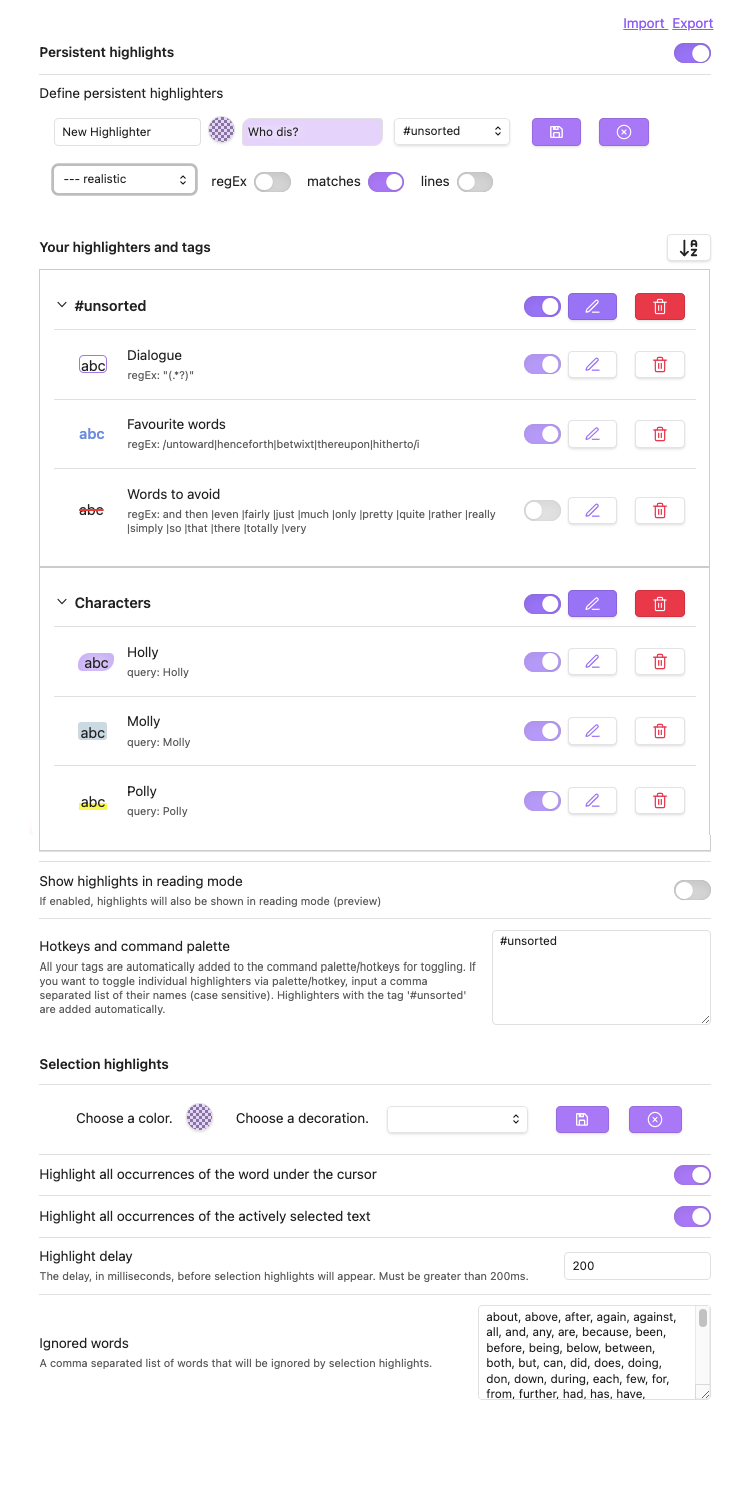
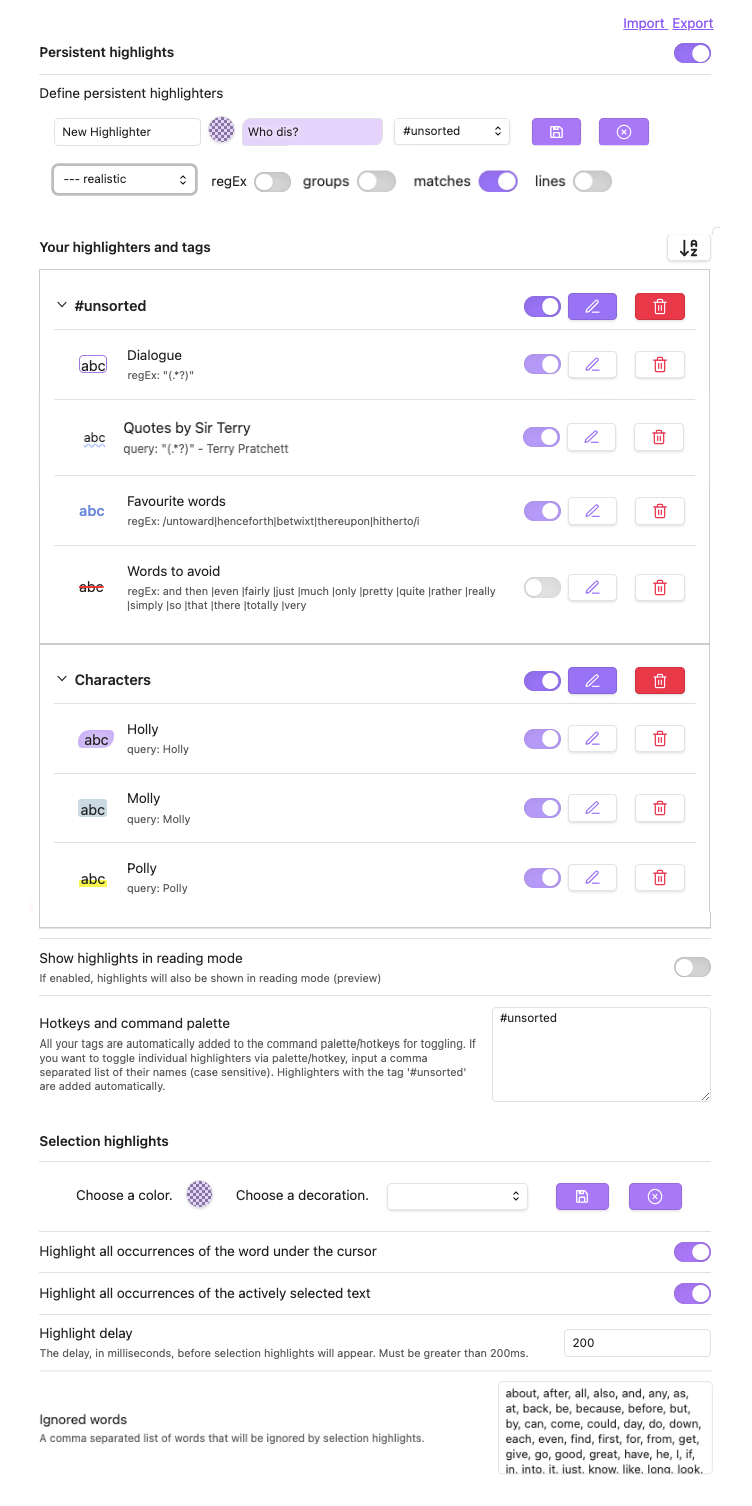
Changelog and stuff to include @leonrjgs contribution. Also kinda fixed import.... not really...

diff --git a/src/settings/import.ts b/src/settings/import.ts
@@ -2,133 +2,127 @@
 
 import Ajv from "ajv";
 import {
-	App,
-	ButtonComponent,
-	Modal,
-	Setting,
-	TextAreaComponent,
+  App,
+  ButtonComponent,
+  Modal,
+  Setting,
+  TextAreaComponent,
 } from "obsidian";
 import { queriesSchema } from "src/schema/queries";
 import AnotherDynamicHighlightsPlugin from "../../main";
 import { SearchQueries } from "./settings";
 
 export class ImportModal extends Modal {
-	plugin: AnotherDynamicHighlightsPlugin;
+  plugin: AnotherDynamicHighlightsPlugin;
 
-	constructor(app: App, plugin: AnotherDynamicHighlightsPlugin) {
-		super(app);
-		this.plugin = plugin;
-	}
+  constructor(app: App, plugin: AnotherDynamicHighlightsPlugin) {
+    super(app);
+    this.plugin = plugin;
+  }
 
-	onOpen() {
-		let { contentEl, modalEl } = this;
+  onOpen() {
+    let { contentEl, modalEl } = this;
 
-		modalEl.addClass("modal-style-settings");
-		modalEl.addClass("modal-dynamic-highlights");
+    modalEl.addClass("modal-style-settings");
+    modalEl.addClass("modal-dynamic-highlights");
 
-		new Setting(contentEl)
-			.setName("Import highlighters")
-			.setDesc(
-				"Import an entire or partial configuration. Warning: this may override existing highlighters"
-			);
+    new Setting(contentEl)
+      .setName("Import highlighters")
+      .setDesc(
+        "Import an entire or partial configuration. Warning: this may override existing highlighters"
+      );
 
-		new Setting(contentEl).then((setting) => {
-			// Build an error message container
-			const errorSpan = createSpan({
-				cls: "style-settings-import-error",
-				text: "Error importing config",
-			});
+    new Setting(contentEl).then((setting) => {
+      // Build an error message container
+      const errorSpan = createSpan({
+        cls: "style-settings-import-error",
+        text: "Error importing config",
+      });
 
-			setting.nameEl.appendChild(errorSpan);
+      setting.nameEl.appendChild(errorSpan);
 
-			// Attempt to parse the imported data and close if successful
-			const importAndClose = async (str: string) => {
-				if (str) {
-					try {
-						let { queryOrder } = this.plugin.settings.staticHighlighter;
-						const importedSettings = JSON.parse(str) as SearchQueries;
-						const ajv = new Ajv();
-						const validate = ajv.compile(queriesSchema);
-						if (!validate(importedSettings)) {
-							throw validate.errors
-								?.map((err) => `${err.instancePath} ${err.message}`)
-								.first();
-						}
-						Object.assign(
-							this.plugin.settings.staticHighlighter.queries,
-							importedSettings
-						);
-						Object.keys(importedSettings).forEach(
-							(key) => queryOrder.includes(key) || queryOrder.push(key)
-						);
-						await this.plugin.saveSettings();
-						this.plugin.updateStaticHighlighter();
-						this.plugin.updateStyles();
-						//this.plugin.updateCustomCSS();
-						this.plugin.settingsTab.display();
-						this.close();
-					} catch (e) {
-						errorSpan.addClass("active");
-						errorSpan.setText(`Error importing highlighters: ${e}`);
-					}
-				} else {
-					errorSpan.addClass("active");
-					errorSpan.setText(`Error importing highlighters: config is empty`);
-				}
-			};
+      // Attempt to parse the imported data and close if successful
+      const importAndClose = async (str: string) => {
+        if (str) {
+          try {
+            let { queryOrder } = this.plugin.settings.staticHighlighter;
+            const importedSettings = JSON.parse(str) as SearchQueries;
+            const ajv = new Ajv();
+            Object.assign(
+              this.plugin.settings.staticHighlighter.queries,
+              importedSettings
+            );
+            Object.keys(importedSettings).forEach(
+              (key) => queryOrder.includes(key) || queryOrder.push(key)
+            );
+            await this.plugin.saveSettings();
+            this.plugin.updateStaticHighlighter();
+            this.plugin.updateStyles();
+            //this.plugin.updateCustomCSS();
+            this.plugin.settingsTab.display();
+            this.close();
+          } catch (e) {
+            errorSpan.addClass("active");
+            errorSpan.setText(`Error importing highlighters: ${e}`);
+          }
+        } else {
+          errorSpan.addClass("active");
+          errorSpan.setText(`Error importing highlighters: config is empty`);
+        }
+      };
 
-			// Build a file input
-			setting.controlEl.createEl(
-				"input",
-				{
-					cls: "style-settings-import-input",
-					attr: {
-						id: "style-settings-import-input",
-						name: "style-settings-import-input",
-						type: "file",
-						accept: ".json",
-					},
-				},
-				(importInput) => {
-					// Set up a FileReader so we can parse the file contents
-					importInput.addEventListener("change", (e) => {
-						const reader = new FileReader();
-						reader.onload = async (e: ProgressEvent<FileReader>) => {
-							if (e.target?.result) {
-								await importAndClose(
-									e.target && e.target.result.toString().trim()
-								);
-							}
-						};
-						let files = (e.target as HTMLInputElement).files;
-						if (files?.length) reader.readAsText(files[0]);
-					});
-				}
-			);
+      // Build a file input
+      setting.controlEl.createEl(
+        "input",
+        {
+          cls: "style-settings-import-input",
+          attr: {
+            id: "style-settings-import-input",
+            name: "style-settings-import-input",
+            type: "file",
+            accept: ".json",
+          },
+        },
+        (importInput) => {
+          // Set up a FileReader so we can parse the file contents
+          importInput.addEventListener("change", (e) => {
+            const reader = new FileReader();
+            reader.onload = async (e: ProgressEvent<FileReader>) => {
+              if (e.target?.result) {
+                await importAndClose(
+                  e.target && e.target.result.toString().trim()
+                );
+              }
+            };
+            let files = (e.target as HTMLInputElement).files;
+            if (files?.length) reader.readAsText(files[0]);
+          });
+        }
+      );
 
-			// Build a label we will style as a link
-			setting.controlEl.createEl("label", {
-				cls: "style-settings-import-label",
-				text: "Import from file",
-				attr: {
-					for: "style-settings-import-input",
-				},
-			});
+      // Build a label we will style as a link
+      setting.controlEl.createEl("label", {
+        cls: "style-settings-import-label",
+        text: "Import from file",
+        attr: {
+          for: "style-settings-import-input",
+        },
+      });
 
-			new TextAreaComponent(contentEl)
-				.setPlaceholder("Paste config here...")
-				.then((ta) => {
-					new ButtonComponent(contentEl)
-						.setButtonText("Save")
-						.onClick(async () => {
-							await importAndClose(ta.getValue().trim());
-						});
-				});
-		});
-	}
+      new TextAreaComponent(contentEl)
+        .setPlaceholder("Paste config here...")
+        .then((ta) => {
+          new ButtonComponent(contentEl)
+            .setButtonText("Save")
+            .onClick(async () => {
+              await importAndClose(ta.getValue().trim());
+            });
+        });
+    });
+  }
 
-	onClose() {
-		let { contentEl } = this;
-		contentEl.empty();
-	}
+  onClose() {
+    let { contentEl } = this;
+    contentEl.empty();
+  }
 }

diff --git a/README.md b/README.md
@@ -1,7 +1,11 @@
 This plugin is based on 'Dynamic Highlights' by nothingislost. I fixed a bug in
 the regEx, but otherwise I left the basic mechanics untouched. I just added a
-lot more customisability and some usability features, which I hope you find 
-worthwhile. 
+lot more customisability and some usability features, which I hope you find
+worthwhile.
+
+UPDATES
+
+- 2025-08-16: @leonrjg added capture group functionality. Thank you!
 
 Some of the highlight styles were inspired by those available in 'Highlightr' by
 chetachiezikeuzor, so if you're using that, aDHL should fit right in, style
@@ -45,6 +49,7 @@ left to right, top to bottom. The example queries can be found all the way down.
   - **RegEx toggle:** Turn regEx on/off. This obviously uses JavaScript
     flavoured regEx. Find info here: https://www.regular-expressions.info. As I
     said, I fixed one bug, but there might be some left.
+  - **Groups toggle:** Toggle capture groups on/off.
   - **Matches toggle:** Toggle on/off if matches will be highlighted.
   - **Parent line toggle:** Toggle on/off if the parent line of a match will be
     highlighted.

diff --git a/CHANGELOG.md b/CHANGELOG.md
@@ -1,3 +1,9 @@
+## [1.2.0]
+
+## New:
+
+- Now you can also use capture groups. Thanks to @leonrjg for this contribution!
+
 ## [1.1.0]
 
 ## Fixes:
